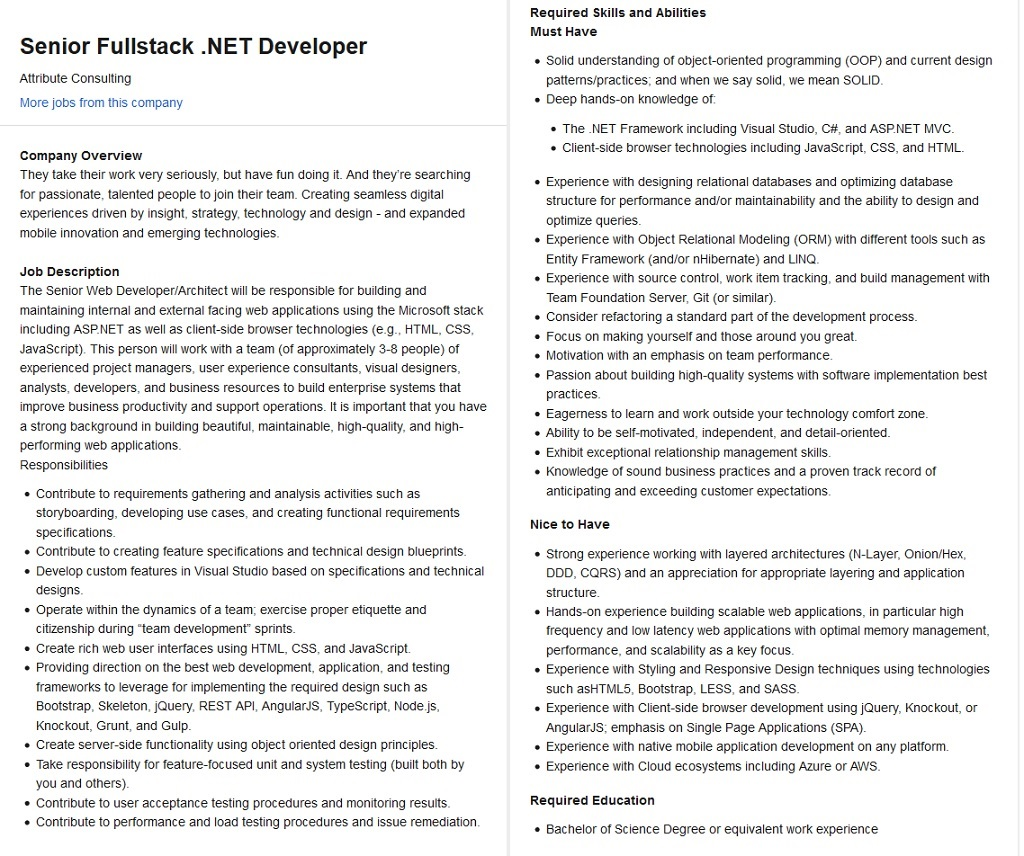
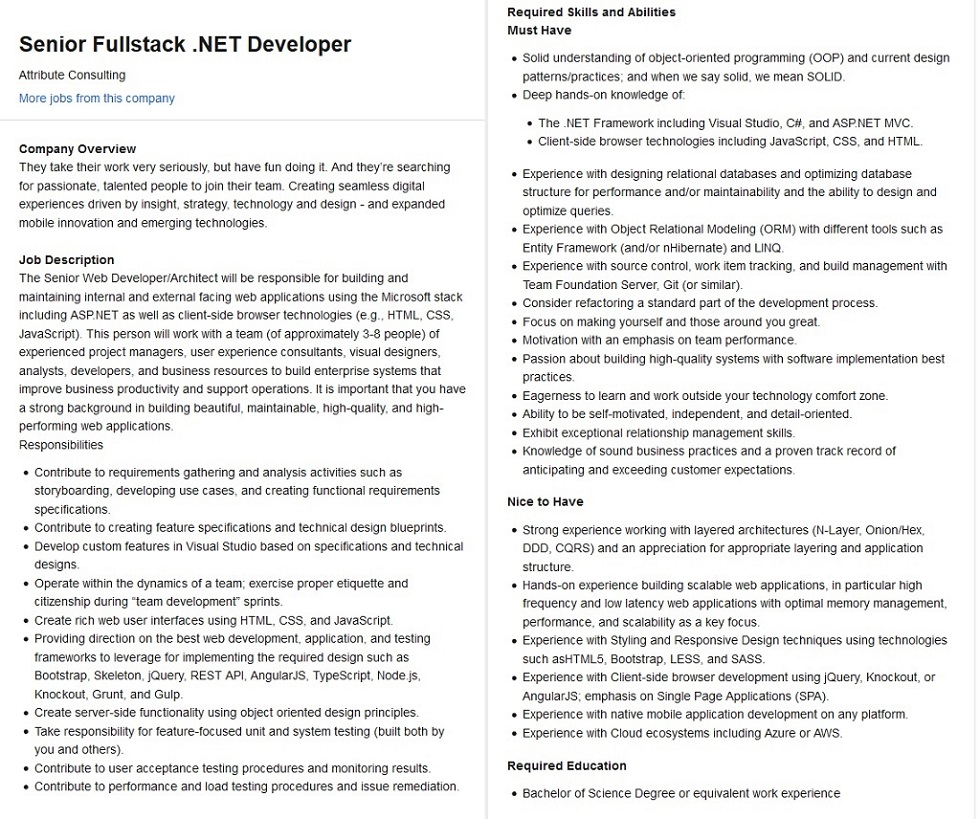
formatting

diff --git a/job.html b/job.html
@@ -28,14 +28,14 @@ body {
 <body>
 <div id="container">
   <div id="header">    
-  <img src="banner.jpg" width="1024" height="200" alt=""/></div>
-  <div id="navigation"> <a href="https://waynezout.github.io/index.html">My Profile</a> / <a href="https://waynezout.github.io/interest.html">Interest in IT</a> / <a href="https://waynezout.github.io/job.html">Ideal Job</a> / <a href="https://waynezout.github.io/profile.html">Personal Profile</a> / <a href="https://waynezout.github.io/project.html">Project</a></div>
+  <img src="banner.jpg" width="1024" height="250" alt=""/></div>
+  <div id="navigation"> <a href="https://waynezout.github.io/index.html"><strong>My Profile</strong></a><strong> / <a href="https://waynezout.github.io/interest.html">Interest in IT</a> / <a href="https://waynezout.github.io/job.html">Ideal Job</a> / <a href="https://waynezout.github.io/profile.html">Personal Profile</a> / <a href="https://waynezout.github.io/project.html">Project</a></strong></div>
   <div id="maintext">
     <p>&nbsp;</p>
     <p><strong>Ideal Job </strong></p>
     <p>At this point in time, as far as my ideal job would go, well I’m still really in the early stages. For now, from all I’ve seen and experienced my deal job would be working as the jack of all trades, the Full Stack Developer. Senior Fullstack .NET Developer.</p>
     <p><strong><u><a href="https://www.seek.com.au/job/38522088?searchrequesttoken=ded47d61-0099-4030-87fd-4fb4c8094689&amp;type=standout">Senior FullStack .NET Developer</a></u></strong></p>
-    <p><img src=seekad.jpg width="1024" height="856" alt=""/></p>
+    <p><img src=seekad.jpg width="980" height="819" alt=""/></p>
     <p>This position is calling for a Full Stack Developer that specialises in the Microsoft stack, specifically ASP.Net and its accompanying languages, to work with a team on the development of high quality web applications. What I find appealing about this role is it requires a high level of skill and an ability to work within a team. A full stack developer generally has the ability to take on an entire project using their skill set across the whole range for a platform however I’ve always preferred the idea of working with a team, being able to share ideas, split the workload and offer suggestions and improvements on a project. Of course, there is also the $130k base salary, if you’re going to aim for something, you better aim high. </p>
     <p>The skills required to for this position cover a quite a large scope, as is the nature with a full stack developer. You would need to be proficient in several coding languages, web platforms and applications to be successful, these include ASP.NET, JavaScript, CSS, HTML, Bootstrap, jQuery and Skeleton. </p>
     <p>At this point in time my knowledge on such things is limited, in the past I helped with some ASP programing on a couple projects with friends, as well as some experimentation with different programming languages but its early days. </p>

diff --git a/profile.html b/profile.html
@@ -28,8 +28,8 @@ body {
 <body>
 <div id="container">
   <div id="header">    
-  <img src="banner.jpg" width="1024" height="200" alt=""/></div>
-  <div id="navigation"> <a href="https://waynezout.github.io/index.html">My Profile</a> / <a href="https://waynezout.github.io/interest.html">Interest in IT</a> / <a href="https://waynezout.github.io/job.html">Ideal Job</a> / <a href="https://waynezout.github.io/profile.html">Personal Profile</a> / <a href="https://waynezout.github.io/project.html">Project</a></div>
+  <img src="banner.jpg" width="1024" height="250" alt=""/></div>
+  <div id="navigation"> <a href="https://waynezout.github.io/index.html"><strong>My Profile</strong></a><strong> / <a href="https://waynezout.github.io/interest.html">Interest in IT</a> / <a href="https://waynezout.github.io/job.html">Ideal Job</a> / <a href="https://waynezout.github.io/profile.html">Personal Profile</a> / <a href="https://waynezout.github.io/project.html">Project</a></strong></div>
   <div id="maintext">
     <p>&nbsp;</p>
     <p><strong>Personal Profile</strong></p>

diff --git a/interest.html b/interest.html
@@ -28,8 +28,8 @@ body {
 <body>
 <div id="container">
   <div id="header">    
-  <img src="banner.jpg" width="1024" height="200" alt=""/></div>
-  <div id="navigation"> <a href="https://waynezout.github.io/index.html">My Profile</a> / <a href="https://waynezout.github.io/interest.html">Interest in IT</a> / <a href="https://waynezout.github.io/job.html">Ideal Job</a> / <a href="https://waynezout.github.io/profile.html">Personal Profile</a> / <a href="https://waynezout.github.io/project.html">Project</a></div>
+  <img src="banner.jpg" width="1024" height="250" alt=""/></div>
+  <div id="navigation"> <a href="https://waynezout.github.io/index.html"><strong>My Profile</strong></a><strong> / <a href="https://waynezout.github.io/interest.html">Interest in IT</a> / <a href="https://waynezout.github.io/job.html">Ideal Job</a> / <a href="https://waynezout.github.io/profile.html">Personal Profile</a> / <a href="https://waynezout.github.io/project.html">Project</a></strong></div>
   <div id="maintext">
     <p>&nbsp;</p>
     <p><strong>Interest in IT </strong></p>

diff --git a/project.html b/project.html
@@ -28,8 +28,8 @@ body {
 <body>
 <div id="container">
   <div id="header">    
-  <img src="banner.jpg" width="1024" height="200" alt=""/></div>
-  <div id="navigation"> <a href="https://waynezout.github.io/index.html">My Profile</a> / <a href="https://waynezout.github.io/interest.html">Interest in IT</a> / <a href="https://waynezout.github.io/job.html">Ideal Job</a> / <a href="https://waynezout.github.io/profile.html">Personal Profile</a> / <a href="https://waynezout.github.io/project.html">Project</a></div>
+  <img src="banner.jpg" width="1024" height="250" alt=""/></div>
+  <div id="navigation"> <a href="https://waynezout.github.io/index.html"><strong>My Profile</strong></a><strong> / <a href="https://waynezout.github.io/interest.html">Interest in IT</a> / <a href="https://waynezout.github.io/job.html">Ideal Job</a> / <a href="https://waynezout.github.io/profile.html">Personal Profile</a> / <a href="https://waynezout.github.io/project.html">Project</a></strong></div>
   <div id="maintext">
     <p>&nbsp;</p>
     <p><strong>Project</strong></p>

diff --git a/index.html b/index.html
@@ -28,8 +28,8 @@ body {
 <body>
 <div id="container">
   <div id="header">    
-  <img src="banner.jpg" width="1024" height="200" alt=""/></div>
-  <div id="navigation"> <a href="https://waynezout.github.io/index.html">My Profile</a> / <a href="https://waynezout.github.io/interest.html">Interest in IT</a> / <a href="https://waynezout.github.io/job.html">Ideal Job</a> / <a href="https://waynezout.github.io/profile.html">Personal Profile</a> / <a href="https://waynezout.github.io/project.html">Project</a></div>
+  <img src="banner.jpg" width="1024" height="250" alt=""/></div>
+  <div id="navigation"> <a href="https://waynezout.github.io/index.html"><strong>My Profile</strong></a><strong> / <a href="https://waynezout.github.io/interest.html">Interest in IT</a> / <a href="https://waynezout.github.io/job.html">Ideal Job</a> / <a href="https://waynezout.github.io/profile.html">Personal Profile</a> / <a href="https://waynezout.github.io/project.html">Project</a></strong></div>
   <div id="maintext">
 	  <div id="image">
 		 <p>&nbsp;</p>
